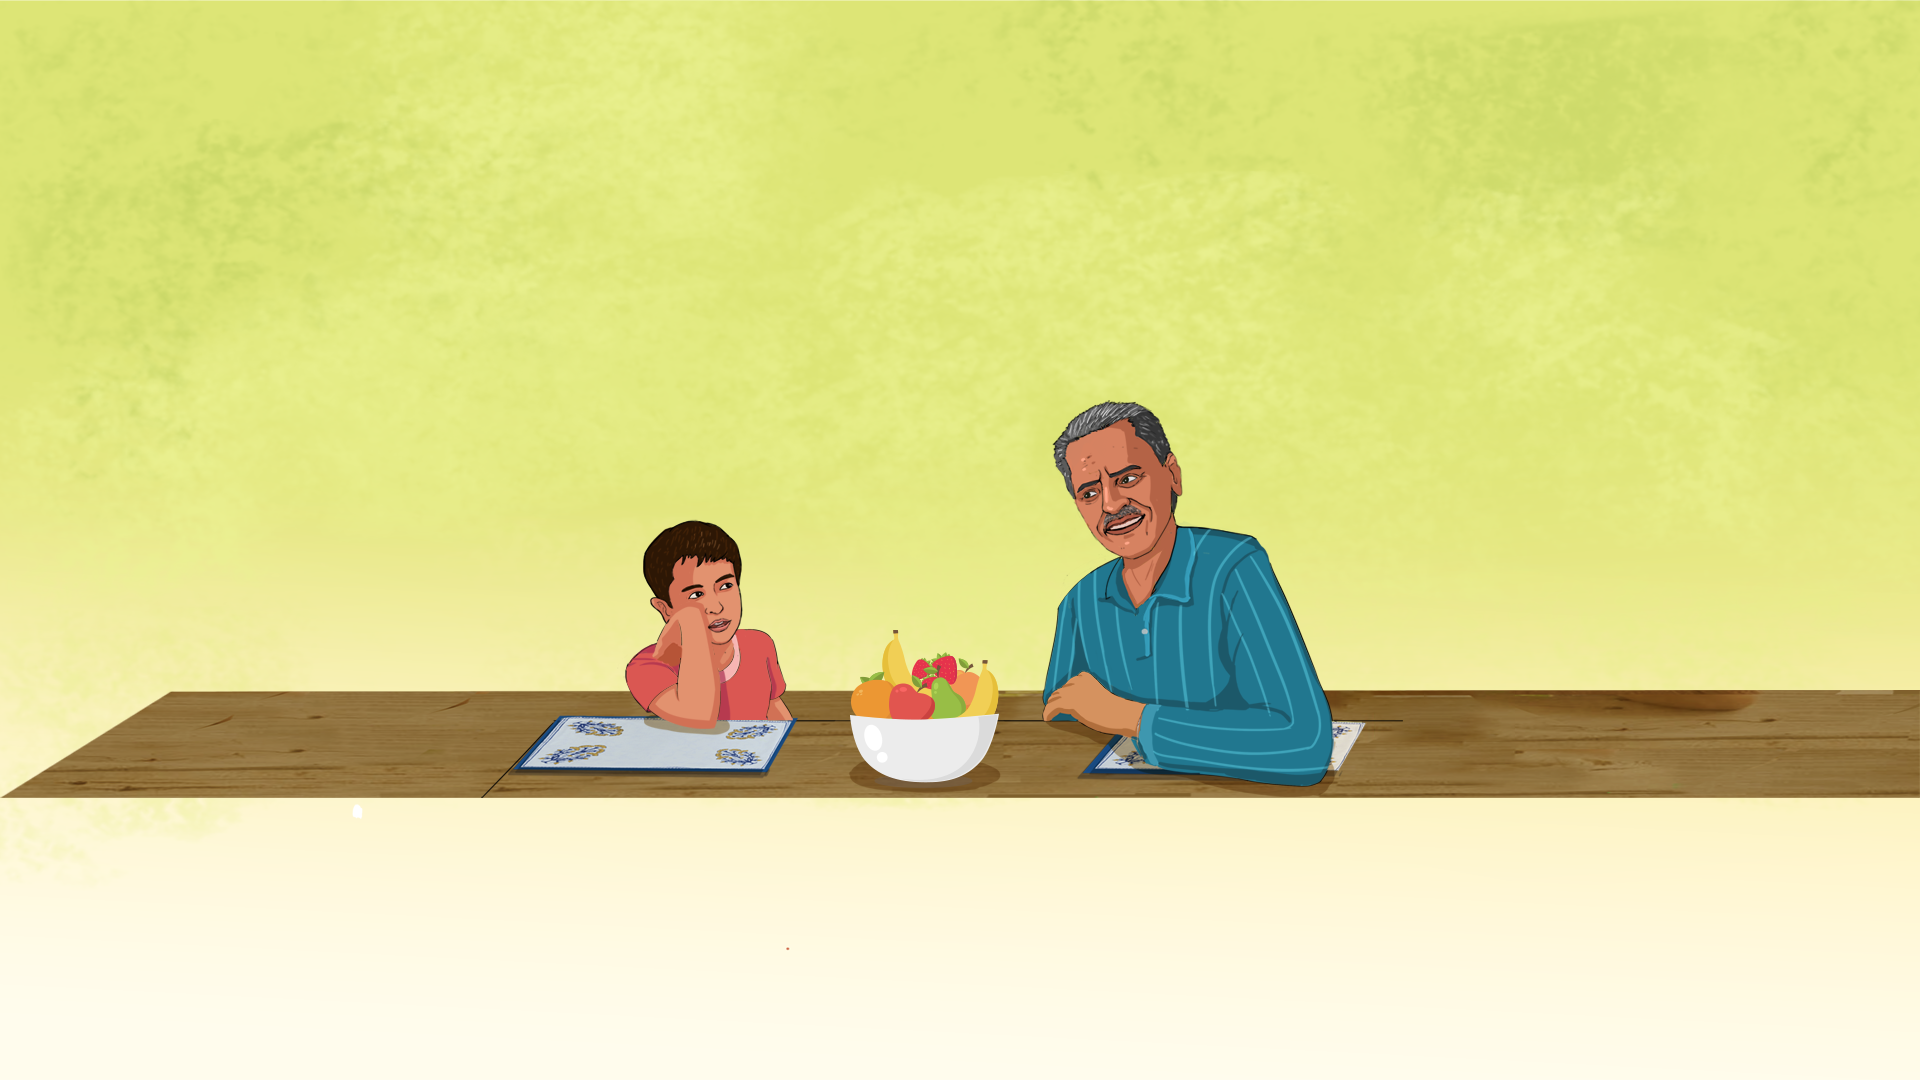
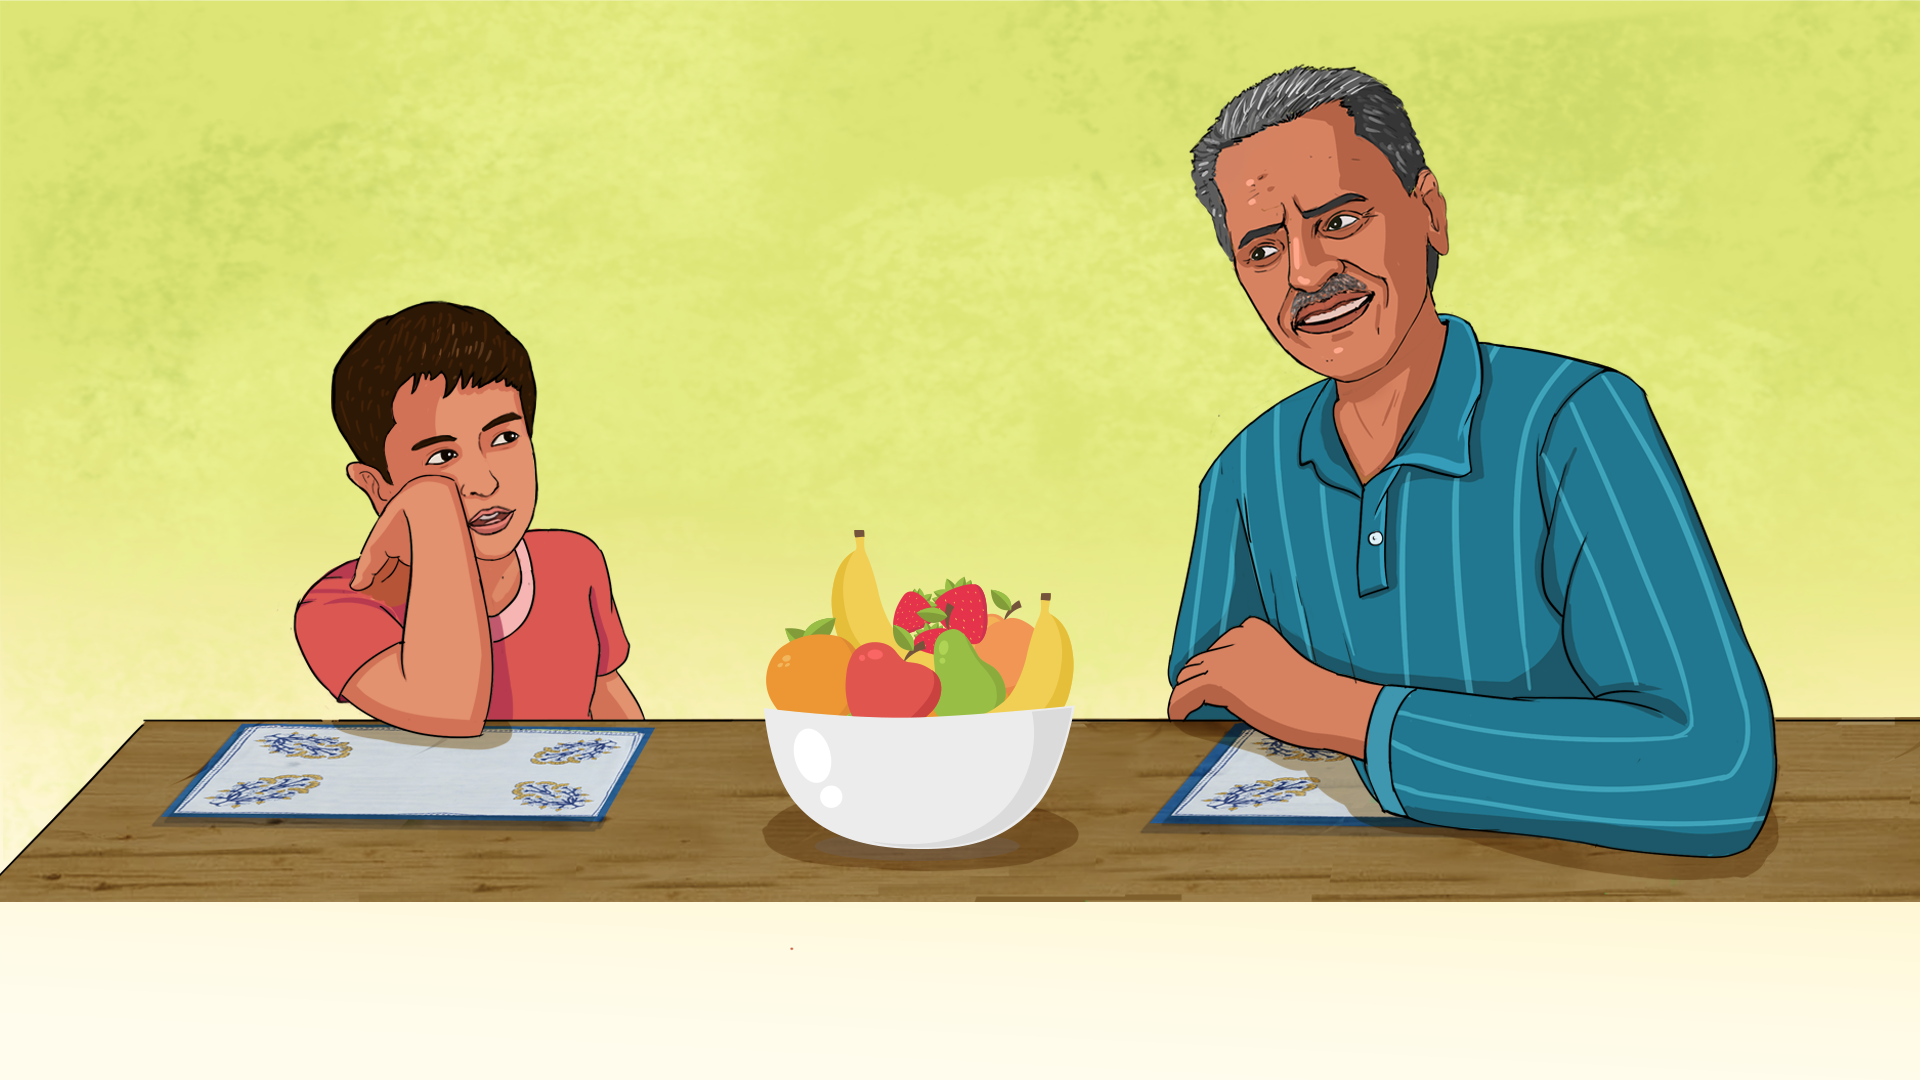
New Layouts and Pages Enabled

diff --git a/app/(pages)/eng/02/page.jsx b/app/(pages)/eng/02/page.jsx
@@ -4,6 +4,7 @@ import Image from "next/image";
 import React from "react";
 import { useRouter } from "next/navigation";
 import TwoColumnLayout2 from "@/app/_Layouts/TwoColumnLayout2";
+import TwoRowsTwoColumsLayout1 from "@/app/_Layouts/TwoRowsTwoColumsLayout1";
 
 function Page2() {
   const router = useRouter();
@@ -79,25 +80,41 @@ function Page2() {
           altText="bed grandfather grandson moon story"
         >
           <div className="flex flex-col gap-5 mx-auto my-28 pr-28">
-            <p className="text-justify text-lg font-medium select-none">
+            <p className="text-justify text-2xl font-medium select-none">
               Veer&apos;s school was soon to hold a workshop on Space. Veer
               wanted to actively participate in this workshop. He was very
               interested in learning about India&apos;s Space Research
-              Programme. The topic constantly played on his mind. One night,
-              after completing his homework, packing his bag for school, and
-              getting his uniform ready, Veer jumped into bed and snuggled
-              against Dadaji.
+              Programme.
             </p>
-            <p className="text-justify text-lg font-medium select-none">
+            <p className="text-justify text-2xl font-medium select-none">
+              The topic constantly played on his mind. One night, after
+              completing his homework, packing his bag for school, and getting
+              his uniform ready, Veer jumped into bed and snuggled against
+              Dadaji.
+            </p>
+            <p className="text-justify text-2xl font-medium select-none">
               Veer - Dadaji, tell me a story about space, the moon, and
               astronauts.
             </p>
           </div>
         </TwoColumnLayout2>
+        {/* <TwoRowsTwoColumsLayout1
+          imgSRC1="/images/Page1/moonBG.gif"
+          imgSRC2="/images/Page1/bed.png"
+          text1="Veer's school was soon to hold a workshop on Space. Veer
+              wanted to actively participate in this workshop. He was very
+              interested in learning about India's Space Research
+              Programme. The topic constantly played on his mind. One night,
+              after completing his homework, packing his bag for school, and
+              getting his uniform ready, Veer jumped into bed and snuggled
+              against Dadaji."
+          text2=" Veer - Dadaji, tell me a story about space, the moon, and
+              astronauts."
+        /> */}
       </section>
       <FooterStory
-        pageNum1={"02"}
-        pageNum2={"03"}
+        pageNum1={"03"}
+        pageNum2={"04"}
         onPrev={prevPageHandler}
         onNext={nextPageHandler}
       />

diff --git a/app/(pages)/eng/03/page.jsx b/app/(pages)/eng/03/page.jsx
@@ -1,0 +1,48 @@
+"use client";
+import FooterStory from "@/app/_Components/FooterStory";
+import React from "react";
+import { useRouter } from "next/navigation";
+
+function Page3() {
+  const router = useRouter();
+
+  const prevPageHandler = () => {
+    router.push("/eng/02");
+  };
+
+  const nextPageHandler = () => {
+    router.push("/eng/04");
+  };
+
+  return (
+    <>
+      <section className="w-[100vw] h-[100vh] page3 bg-cover select-none">
+        <div className="ml-[45rem] py-[4rem] flex flex-col justify-center gap-3 text-slate-800 text-2xl text-justify font-medium">
+          <p className="px-24">
+            Dadaji&apos;s eyes twinkle. He had been expecting this question from
+            Veer for quite sometime now. He knew about the forthcoming workshop
+            in the boy&apos;s school, and had seen his excited preparations.
+          </p>
+          <p className="px-24">
+            Dadaji - What is so special about the moon today?
+          </p>
+          <p className="px-24">
+            Veer - Dadaji, this morning while cleaning my room,
+            I saw the picture of a spacecraft on the moon on the
+            front page of a newspaper. There were also pictures
+            of people celebrating. I want to know why this news
+            was so important that day.
+          </p>
+        </div>
+      </section>
+      <FooterStory
+        pageNum1={"04"}
+        pageNum2={"05"}
+        onPrev={prevPageHandler}
+        onNext={nextPageHandler}
+      />
+    </>
+  );
+}
+
+export default Page3;

diff --git a/app/_Layouts/TwoRowsTwoColumsLayout1.jsx b/app/_Layouts/TwoRowsTwoColumsLayout1.jsx
@@ -1,0 +1,43 @@
+import Image from "next/image";
+import React from "react";
+
+function TwoRowsTwoColumsLayout1({ imgSRC1, text1, imgSRC2, text2 }) {
+  return (
+    <>
+      <div className="min-h-screen p-6">
+        <div className="grid grid-rows-2">
+          <div className="flex items-center justify-between">
+            <p className="text-justify text-2xl font-medium select-none">
+              {text1}
+            </p>
+            <Image
+              src={imgSRC1}
+              alt="image1"
+              className="w-full h-72 bg-cover top-0 left-0"
+              width={900}
+              height={500}
+              quality={100}
+              objectFit="cover"
+            />
+          </div>
+          <div className="flex items-center justify-between">
+            <Image
+              src={imgSRC2}
+              alt="image1"
+              className="w-full h-80 bg-cover mr-48 bottom-0 left-0"
+              width={800}
+              height={500}
+              quality={100}
+              objectFit="cover"
+            />
+            <p className="text-justify text-2xl font-medium select-none">
+              {text2}
+            </p>
+          </div>
+        </div>
+      </div>
+    </>
+  );
+}
+
+export default TwoRowsTwoColumsLayout1;

diff --git a/app/_Layouts/TwoColumnLayout1.jsx b/app/_Layouts/TwoColumnLayout1.jsx
@@ -6,13 +6,13 @@ function TwoColumnLayout1({ imageSrc, altText, children }) {
     <>
       <div className="grid grid-cols-1 md:grid-cols-2 gap-4 items-center">
         {/* Text Column */}
-        <div className="flex flex-col justify-center p-10">{children}</div>
+        <div className="flex flex-col justify-center p-5">{children}</div>
         {/* Image Column */}
-        <div className="p-48 relative w-56 h-56 md:h-full">
+        <div className="p-24 relative w-56 h-56 md:h-full">
           <Image
             src={imageSrc}
             alt={altText}
-            className="bg-cover w-48 h-80 block ml-64"
+            className="bg-cover w-28 h-56 block ml-[30rem]"
             objectFit="cover"
             unoptimized
             priority={true}

diff --git a/app/(pages)/eng/01/page.jsx b/app/(pages)/eng/01/page.jsx
@@ -40,10 +40,10 @@ function Page1() {
       <section className="w-[100vw] h-[100vh] page1 bg-cover select-none">
         <div className="container mx-auto px-4 py-8">
           <TwoColumnLayout1
-            imageSrc="/images/Page1/page1GB.png"
+            imageSrc="/images/Page1/page1CG.png"
             altText="Grand Father Grand Son Table"
           >
-            <p className="p-10 text-justify text-xl font-medium select-none">
+            <p className="text-justify text-3xl font-medium select-none">
               Ten year old Veer is a very intelligent and curious boy. He and
               his Dadaji are great friends. They sleep in the same room. At
               bedtime before falling asleep, Dadaji makes up interesting stories

diff --git a/app/(pages)/eng/04/page.jsx b/app/(pages)/eng/04/page.jsx
@@ -1,0 +1,31 @@
+"use client";
+import FooterStory from "@/app/_Components/FooterStory";
+import React from "react";
+import { useRouter } from "next/navigation";
+
+function Page4() {
+
+  const router = useRouter();
+
+  const prevPageHandler = () => {
+    router.push("/eng/03");
+  };
+
+  const nextPageHandler = () => {
+    router.push("/eng/05");
+  };
+
+  return (
+    <>
+      <section className="w-[100vw] h-[100vh] bg-cover select-none"></section>
+      <FooterStory
+        pageNum1={"06"}
+        pageNum2={"07"}
+        onPrev={prevPageHandler}
+        onNext={nextPageHandler}
+      />
+    </>
+  );
+}
+
+export default Page4;

diff --git a/app/(pages)/eng/05/page.jsx b/app/(pages)/eng/05/page.jsx
@@ -1,0 +1,30 @@
+"use client";
+import FooterStory from "@/app/_Components/FooterStory";
+import React from "react";
+import { useRouter } from "next/navigation";
+
+function Page5() {
+  const router = useRouter();
+
+  const prevPageHandler = () => {
+    router.push("/eng/05");
+  };
+
+  const nextPageHandler = () => {
+    router.push("/eng/06");
+  };
+
+  return (
+    <>
+      <section className="w-[100vw] h-[100vh] bg-cover select-none"></section>
+      <FooterStory
+        pageNum1={"08"}
+        pageNum2={"09"}
+        onPrev={prevPageHandler}
+        onNext={nextPageHandler}
+      />
+    </>
+  );
+}
+
+export default Page5;
